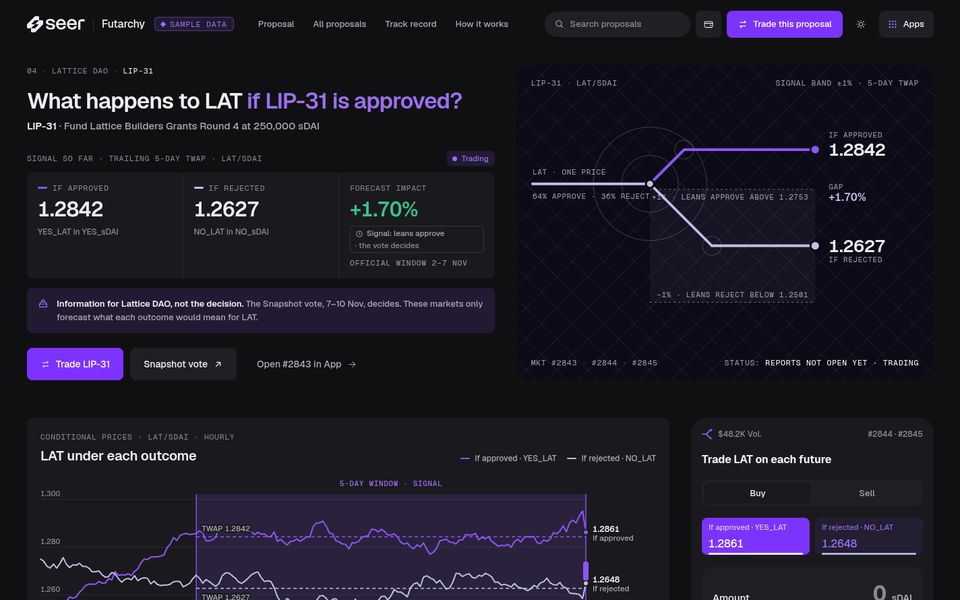
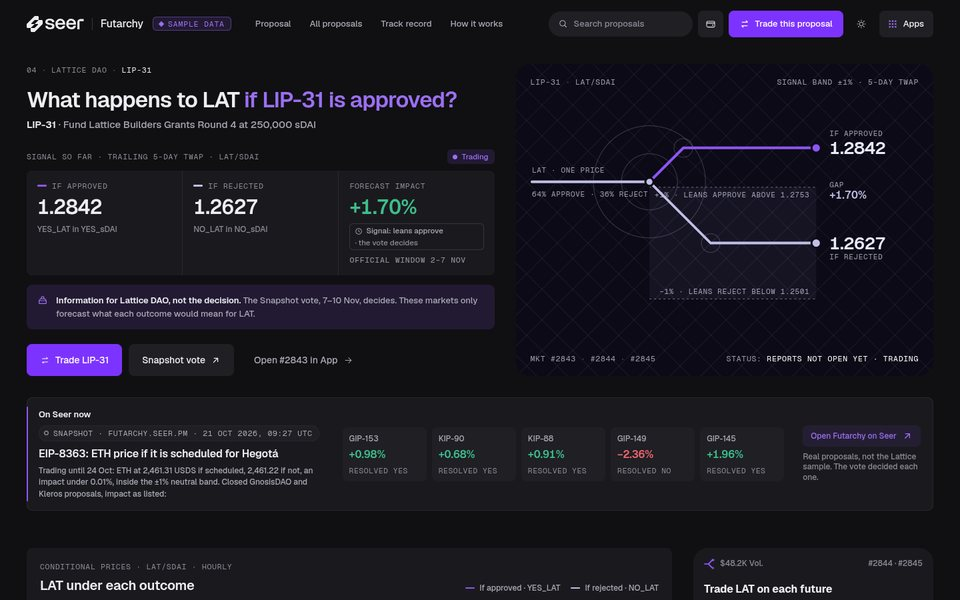
Hub: where the data comes from, and the accessibility and QA checks actually run; the EF mark files named; light-theme muted, positive, warning and negative text lifted to AA on every surface; thumbnails of today's first screens; App paints its dated snapshot at once while live prices load

diff --git a/index.html b/index.html
@@ -131,6 +131,10 @@ if(location.protocol!=="file:")["geist-latin","geist-mono-latin"].forEach(functi
 .hb-kc li b { color: var(--text); font-weight: 600; }
 @media (max-width: 1100px) { .hb-ka { grid-template-columns: minmax(0, 1fr) minmax(0, 1fr); } .hb-kc { grid-column: 1 / -1; display: grid; grid-template-columns: minmax(0, 1fr) minmax(0, 1fr); gap: 16px 24px; } }
 @media (max-width: 640px) { .hb-ka { grid-template-columns: minmax(0, 1fr); gap: 12px; } .hb-kc { grid-template-columns: minmax(0, 1fr); } }
+/* proof blocks under the kit: data sources and the QA actually run */
+.hb-proof { display: grid; grid-template-columns: minmax(0, 1fr) minmax(0, 1fr); gap: 16px; margin-top: 16px; }
+.hb-proof__card { gap: 0; }
+@media (max-width: 760px) { .hb-proof { grid-template-columns: minmax(0, 1fr); gap: 12px; margin-top: 12px; } }
 /* section heads with a one-line note on the right */
 .hb-head { margin-bottom: 18px; }
 .hb-head p { color: var(--text-2); font-size: 14px; line-height: 1.5; font-weight: 500; max-width: 60ch; }
@@ -221,7 +225,7 @@ main > .s-section--tight { padding-block: 32px; }
           <div>
             <h3 class="t-h3">Kept</h3>
             <ul>
-              <li class="hb-kc--keep"><b>The mark.</b> The designer&#39;s own vectors, recoloured.</li>
+              <li class="hb-kc--keep"><b>The mark.</b> The EF entry&#39;s own vector files, path data unchanged: not a redraw.</li>
               <li class="hb-kc--keep"><b>Tokens.</b> #101013 · #1A1A1E · #7D33FF; radius 9 · 22 · 8.</li>
               <li class="hb-kc--keep"><b>Components.</b> Pill search, chips, outcome rows, bet slip.</li>
             </ul>
@@ -237,6 +241,26 @@ main > .s-section--tight { padding-block: 32px; }
             </ul>
           </div>
         </div>
+      </div>
+      <!-- proof blocks: where the data comes from, and the checks actually run -->
+      <div class="hb-proof">
+        <section class="hb-kc hb-proof__card" aria-labelledby="hb-data-h">
+          <h3 class="t-h3" id="hb-data-h">Where the data comes from</h3>
+          <ul>
+            <li class="hb-kc--keep"><b>Live:</b> the App&#39;s &ldquo;On Seer now&rdquo; strip reads Seer&#39;s public markets API as the page loads (open, Kleros-verified, by liquidity). If it can&#39;t, it shows a dated snapshot and says so.</li>
+            <li class="hb-kc--keep"><b>Dated snapshots, linked to the source:</b> Deep&#39;s Round 3 (deep.seer.pm), Futarchy&#39;s EIP-8363 and nine closed proposals (futarchy.seer.pm) and Risk&#39;s Q3 2026 market (risk.seer.pm), all read 21 Oct 2026, plus the settled Rebrand Contest on Opportunity (app.seer.pm, 20 Oct).</li>
+            <li><b>Sample:</b> everything else is one made-up thread (Lattice DAO, P-07, #2841) followed across all six apps, badged &ldquo;Sample data&rdquo;; every sample address starts with 0x5eed.</li>
+          </ul>
+        </section>
+        <section class="hb-kc hb-proof__card" aria-labelledby="hb-qa-h">
+          <h3 class="t-h3" id="hb-qa-h">Accessibility and QA</h3>
+          <ul>
+            <li class="hb-kc--keep"><b>Contrast:</b> every text colour is at least 4.6:1 on the page, card and row surfaces, in dark and light (WCAG AA), computed from the tokens.</li>
+            <li class="hb-kc--keep"><b>Keyboard:</b> a skip link is the first Tab stop, every control shows a focus ring, and data tables are real tables with headers.</li>
+            <li class="hb-kc--keep"><b>Reduced motion:</b> transitions and animations drop to near zero when the system asks.</li>
+            <li class="hb-kc--keep"><b>Tested:</b> all seven pages at 360, 390, 768, 1024 and 1440 px, dark and light at 390 and 1440: no console errors and no sideways scroll.</li>
+          </ul>
+        </section>
       </div>
     </div>
   </section>
@@ -281,7 +305,7 @@ main > .s-section--tight { padding-block: 32px; }
           <ol>
             <li><b>Motifs carry data.</b> Wedge widths are outcome shares, waves are forecast distributions, the 45° fork is a futarchy decision, data bars are a field of entries.</li>
             <li><b>Typefaces.</b> PP Neue Montreal and Suisse Int'l Mono are used when installed; everyone else gets licensed stand-ins, Geist and Geist Mono (it keeps the slashed zero). Headlines use one sans: the accent words are violet, not a second, serif face.</li>
-            <li><b>Contrast.</b> Small muted text is lifted from #67676F to #8A8A94 in dark mode and from #8E8E99 to #6E6E79 in light mode, so 12px labels pass WCAG AA.</li>
+            <li><b>Contrast.</b> Small muted text is lifted from #67676F to #8A8A94 in dark mode and from #8E8E99 to #686873 in light mode, so 12px labels pass WCAG AA.</li>
             <li><b>Semantic colour, used sparingly.</b> The kit has no green, amber or red. We add them only for price moves and risk bands, always next to a sign or a label. Futarchy's NO branch is the kit's lavender, so "rejected" never reads as a positive colour.</li>
             <li><b>A chart palette.</b> Six colours, violet first, checked for colour-vision deficiency in both themes. Anything past six becomes "Other".</li>
             <li><b>Small kit fixes.</b> The kit's bet slip shows Yes 69¢ and No 37¢, which add up to 106; our binary prices add up to 100. "$100,00" is written "$100.00".</li>

diff --git a/app/live.js b/app/live.js
@@ -118,9 +118,11 @@
     src.appendChild(document.createTextNode(state === "live" ? "Live · app.seer.pm · " + when : "Snapshot · " + when));
     if (meta) meta.textContent = state === "live"
       ? "Top " + list.length + " of " + count + " open, Kleros-verified markets by liquidity, read from Seer's public API just now."
+      : state === "loading" ? "Dated snapshot while live prices load from Seer's public API…"
       : "Seer's API couldn't be reached just now, so this is the dated snapshot: top " + list.length + " of " + count + " open, Kleros-verified markets by liquidity.";
-    host.setAttribute("aria-busy", "false");
-    shown = state; railButtons();
+    host.setAttribute("aria-busy", state === "loading" ? "true" : "false");
+    if (state !== "loading") shown = state;
+    railButtons();
   }
   function fallback() {
     if (shown) return;
@@ -130,6 +132,8 @@
   function hhmm(d) { var p = function (n) { return (n < 10 ? "0" : "") + n; }; return p(d.getUTCHours()) + ":" + p(d.getUTCMinutes()) + " UTC"; }
 
   /* ---------- fetch ---------- */
+  // paint the dated snapshot at once (labelled as such), so the strip is never empty while Seer answers
+  if (X && Array.isArray(X.markets) && X.markets.length) render(X.markets.slice(0, SHOW), "loading", X.when, X.count);
   var timer = setTimeout(fallback, FALLBACK_MS);
   var ctl = typeof AbortController === "function" ? new AbortController() : null;
   var kill = setTimeout(function () { if (ctl) ctl.abort(); }, ABORT_MS);

diff --git a/assets/system.css b/assets/system.css
@@ -143,7 +143,7 @@
   --line-strong: #D6D6DE;
   --text: #17171C;          /* [kit] */
   --text-2: #5C5C66;        /* [kit] */
-  --text-3: #6E6E79;        /* [dep] kit #8E8E99 is 3.2:1 on white; lifted to 5.0:1 */
+  --text-3: #686873;        /* [dep] kit #8E8E99 is 3.2:1 on white; lifted to 5.5:1 (4.6:1 on the chip surface) */
   --text-kit-muted: #8E8E99;
   --violet: #7D33FF;
   --violet-2: #8F55F7;
@@ -158,9 +158,9 @@
   --shadow-pop: 0 18px 50px rgba(23, 23, 28, .14), 0 0 0 1px rgba(23, 23, 28, .06);
   --scrim: rgba(23, 23, 28, .36);
 
-  --pos: #12805A;  --pos-wash: rgba(18, 128, 90, .10);
-  --neg: #C8323C;  --neg-wash: rgba(200, 50, 60, .09);
-  --warn: #9A6A00; --warn-wash: rgba(214, 152, 20, .12);
+  --pos: #0F7752;  --pos-wash: rgba(15, 119, 82, .10);  /* AA on every light surface */
+  --neg: #BB2D37;  --neg-wash: rgba(200, 50, 60, .09);
+  --warn: #855C00; --warn-wash: rgba(214, 152, 20, .12);
   --live: #E5322D;
   --band-low: #23894D; --band-mod: #D1960F; --band-high: #DB6A3A; --band-crit: #C93636;
 
